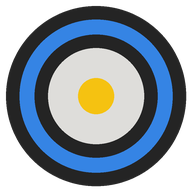
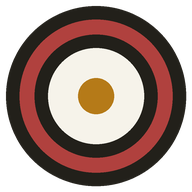
Simge aprsagent.com ailesi renklerinde
Kablo kesiti simgesi (favicon, PWA ve apple-touch) mürekkep kılıf, kırmızı örgü, kâğıt dielektrik ve bakır iç iletkenle yeniden üretildi. SW önbelleği v9.

diff --git a/site/sw.js b/site/sw.js
@@ -7,7 +7,7 @@
  *
  * PRECACHE listesi değişirse CACHE_VERSION'ı artırın.
  */
-const CACHE_VERSION = "v8";
+const CACHE_VERSION = "v9";
 const CACHE_NAME = `coax-db-${CACHE_VERSION}`;
 
 const PRECACHE = [

diff --git a/scripts/make_icons.py b/scripts/make_icons.py
@@ -1,5 +1,5 @@
 # -*- coding: utf-8 -*-
-"""site/assets/icon.svg ile aynı tasarımda PWA PNG simgeleri üretir (koaksiyel kablo kesiti).
+"""site/assets/icon.svg ile aynı tasarımda PWA PNG simgeleri üretir (koaksiyel kablo kesiti, aprsagent.com ailesi renkleri).
 Kullanım: python scripts/make_icons.py   (Pillow gerekir)"""
 import os
 from PIL import Image, ImageDraw
@@ -14,13 +14,13 @@ def icon(size, maskable=False):
     c = s / 2
     k = 0.8 if maskable else 1.0  # maskable: güvenli alan için içerik küçültülür, zemin tam dolu
     if maskable:
-        d.rectangle([0, 0, s, s], fill="#242424")
+        d.rectangle([0, 0, s, s], fill="#22201a")
     r = lambda f: f * s / 64 * k  # noqa: E731
-    d.ellipse([c - r(30), c - r(30), c + r(30), c + r(30)], fill="#242424")
-    d.ellipse([c - r(25.5), c - r(25.5), c + r(25.5), c + r(25.5)], fill="#3584e4")
-    d.ellipse([c - r(20.5), c - r(20.5), c + r(20.5), c + r(20.5)], fill="#242424")
-    d.ellipse([c - r(16), c - r(16), c + r(16), c + r(16)], fill="#deddda")
-    d.ellipse([c - r(6), c - r(6), c + r(6), c + r(6)], fill="#f5c211")
+    d.ellipse([c - r(30), c - r(30), c + r(30), c + r(30)], fill="#22201a")
+    d.ellipse([c - r(25.5), c - r(25.5), c + r(25.5), c + r(25.5)], fill="#b0413e")
+    d.ellipse([c - r(20.5), c - r(20.5), c + r(20.5), c + r(20.5)], fill="#22201a")
+    d.ellipse([c - r(16), c - r(16), c + r(16), c + r(16)], fill="#f6f3ea")
+    d.ellipse([c - r(6), c - r(6), c + r(6), c + r(6)], fill="#b57a18")
     return img.resize((size, size), Image.LANCZOS)
 
 
